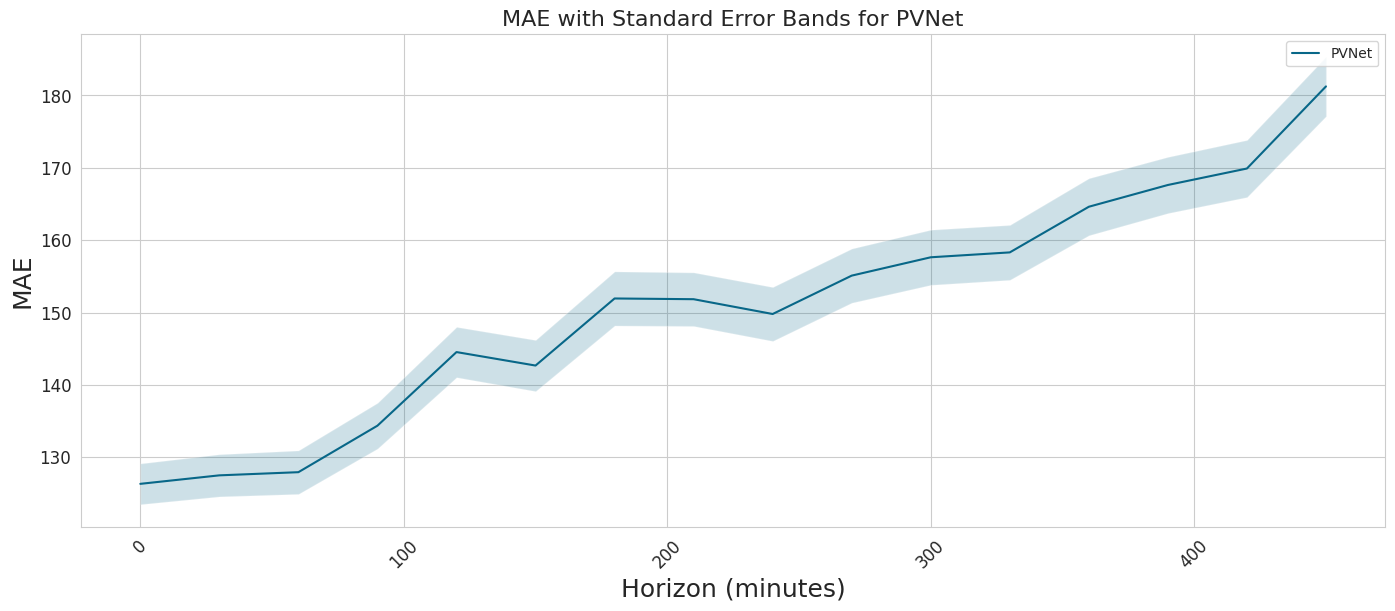
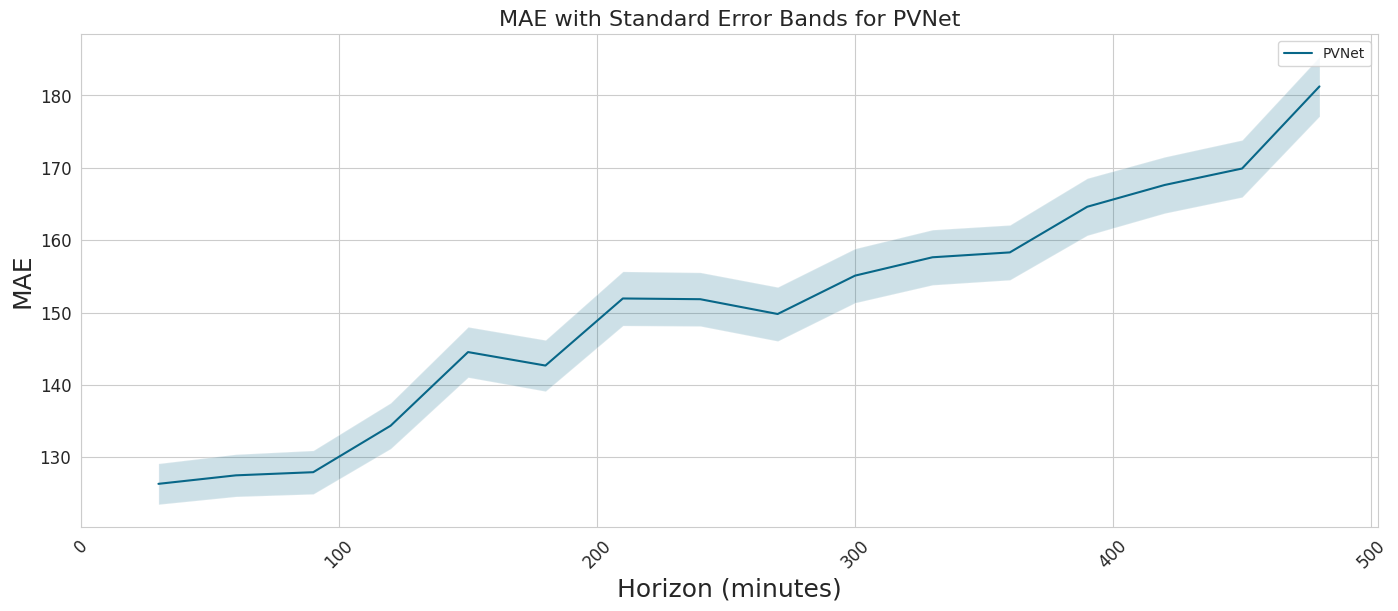
add new PVNet horizon graphs with 30 min adjustment

diff --git a/reports/pvnet_comp.md b/reports/pvnet_comp.md
@@ -20,7 +20,7 @@ This report compares the accuracy of OCF’s national PV forecast (PVNet) and Sh
 
 ## Introduction
 
-In this report, we evaluate the performance of OCF's national PV forecast (PVNet) against the Sheffield Solar PVLive Intraday forecast, using the updated PVLive forecast as the benchmark truth for this comparison. This report will look into various error metrics and discuss the implications of our findings. First we will compare how PVLive Intraday and PVNet perform against PVLive Updated over periods in which we have data for. Then a more comprehensive evaluation of PVNet vs PVLive Updated is completed across the year of 2022, including evaluating the performance across different forecast horizons.
+In this report, we evaluate the performance of OCF's national PV forecast (PVNet) against the Sheffield Solar PVLive Intraday forecast, using the updated PVLive forecast as the benchmark truth for this comparison. This report will look into various error metrics and discuss the implications of our findings. First we will compare how PVLive Intraday and PVNet perform against PVLive Updated over periods in which we have data for. Then a more comprehensive evaluation of PVNet vs PVLive Updated is to be completed across the year of 2022, including evaluating the performance across different forecast horizons.
 
 This report should be used to indicate the difference in the forecasting capabilities between the two as well as provide a framework for future analysis to completed over a larger number of data points.
 
@@ -36,12 +36,12 @@ The number of datapoints that can be used to compare is restricted by two factor
 * ~1 month of missing satellite data
 * 2 days every month in which the satellites switch over.
 
-These inputs gaps do not occur in our production environment. These forecasts could not be made without the missing inputs, and hence have been omitted from the comparison. The quantities of data available can be seen in the chart below (fig 1) where the y axis represents the date, with the top indicating the start of 2022 and the bottom indicating the end of 2022 and the x axis labelling the different data used. The darkened areas illustrates data that is available whereas the white areas show missing or ommitted data.
+These input gaps do not occur in our production environment. These forecasts could not be made without the missing inputs, and hence have been omitted from the comparison. The quantities of data available can be seen in the chart below (fig 1) where the y axis represents the date, with the top indicating the start of 2022 and the bottom indicating the end of 2022 and the x axis labelling the different data used. The darkened areas illustrate data that is available whereas the white areas show missing or omitted data.
 
 ![Data Availability](./imgs/data_availability_across_2022.png)
 *Fig 1: The data availability across the 3 datasets used in this analysis.*
 
-This report will first look into just the overlapping datapoints from PVLive Intraday and PVNet as shown in the graph above before then moving on to compare all of the datapoints available for PVNet and PVLive updated. Metrics such as the Mean Absolute Error (MAE), Root-Mean-Square Error (RMSE), Mean Bias Error (MBE) and the Coefficient of Determination (R2) will be used for this analysis.
+This report will first look into just the overlapping data points from PVLive Intraday and PVNet as shown in the graph above before then moving on to compare all of the data points available for PVNet and PVLive updated. Metrics such as the Mean Absolute Error (MAE), Root-Mean-Square Error (RMSE), Mean Bias Error (MBE) and the Coefficient of Determination (R2) will be used for this analysis.
 
 ---
 
@@ -58,11 +58,11 @@ The ± represents the standard error in the metric.
 
 PVNet has a significantly better MAE of 129.75 MW compared to PVLive Intraday's MAE of 197.37 MW (shown to be statistically significant with a sample size of n = 5053). Across the data points tested PVNet has a 34.3% reduction in MAE compared to PVLive Intraday.
 
-PVNet also shows a significant reduction in MBE compared to PVLive Intraday. PVLive intraday has an MBE of -187.91 MW indicating a strong tendency to underpredict the actual value where as PVNet has an MBE of 6.30 MW indicating a very slight tendency to overpredict.
+PVNet also shows a significant reduction in MBE compared to PVLive Intraday. PVLive intraday has an MBE of -187.91 MW indicating a strong tendency to underpredict the actual value whereas PVNet has an MBE of 6.30 MW indicating a very slight tendency to overpredict.
 
 ### Standard Deviations of Metrics
 
-| Forecast | Std MAE        | StdRMSE       | Std MBE     |
+| Forecast | Std MAE        | Std RMSE       | Std MBE     |
 |----------|----------------|---------------|-------------|
 | PVLive Intraday    | 298.17         | 521.04        | 304.23      |
 | PVNet    | 194.14         | 370.62        | 233.43      |
@@ -107,7 +107,7 @@ From the heatmaps we can see that most of the worst errors of PVLive intraday oc
 ![Error Distribution of Model A](./imgs/pvnet_vs_pvlin_MBE_monthly.png)
 *Fig 7: Average monthly MBE for PVNet and PVLive Intraday*
 
-Looking at the Mean Bias Error across the months, PVLive Intraday has strong tendency to underpredict, with this bias strongest in the summer months. PVNet also has a slight tendency to unpredict in these summer months as well before switching to having a slight tendency to overpredict in the winter. As the year progresses towards the winter months PVLive Intradays bias does start to decrease where it reaches around -60 in Novemeber compared to PVNet which sits around +50.
+Looking at the Mean Bias Error across the months, PVLive Intraday has a strong tendency to underpredict, with this bias strongest in the summer months. PVNet also has a slight tendency to unpredict in these summer months as well before switching to having a slight tendency to overpredict in the winter. As the year progresses towards the winter months PVLive Intradays bias does start to decrease where it reaches around -60 in November compared to PVNet which sits around +50.
 
 Like before, the following heatmaps will break the MAE down into the average MAE per hour for months and weeks. With red showing an overprediction (the darker the red the greater the overprediction) and blue showing an underprediction (the darker the blue the greater the underprediction) for that period.
 
@@ -133,14 +133,14 @@ Like before, the following heatmaps will break the MAE down into the average MAE
 </tr>
 </table>
 
-The heatmaps shows that PVLive Intraday has a strong tendecy to underpredict with only 1 week having strong signs of an overprediction (week 35). PVNet illustrates and tendency to underpredict in the very early and later hours of the day (around sunrise and sunset) and slight tendency to overpredict in the middle of the day, but with some underpreictions occuring (primarily during week 30 to 34).
+The heatmaps show that PVLive Intraday has a strong tendency to underpredict with only 1 week having strong signs of an overprediction (week 35). PVNet illustrates a tendency to underpredict in the very early and later hours of the day (around sunrise and sunset) and slight tendency to overpredict in the middle of the day, but with some underprediction occuring (primarily during week 30 to 34).
 
 ### Error Distribution
 
 ![Model Forecast vs. Actuals](./imgs/pvnet_pvlin_Error_nights_excluded_hist.png)
-*Fig 12: Histrogram of error distribution of PVNet and PVLive Inraday, with nights removed.*
+*Fig 12: Histogram of error distribution of PVNet and PVLive Intraday, with nights removed.*
 
-When viewing the error distrubtion, the effect of the mean bias in each of the forecasts becomes visible. With PVLive Intraday having a strong negative skew and PVNet having a symetrical distribution.
+When viewing the error distribution, the effect of the mean bias in each of the forecasts becomes visible. With PVLive Intraday having a strong negative skew and PVNet having a symmetrical distribution.
 
 ---
 
@@ -150,7 +150,7 @@ Next this report will look at the performance of PVNet compared to PVLive update
 
 * 2022-01-01 to 2022-11-19
 
-The results shown in the table below are from taking the  PVNet 30 minute forecast, which is the same that was used for the PVLive Intraday comparison above, and comparing the results to PVLive Updated. This section also contains graphs which illustrate the performance of PVNet across its different forecasting horizons (0-8hours).
+The results shown in the table below are from taking the  PVNet 30 minute forecast, which is the same that was used for the PVLive Intraday comparison above, and comparing the results to PVLive Updated. This section also contains graphs which illustrate the performance of PVNet across its different forecasting horizons (30 - 480 minutes).
 
 ### PVNet Results Table
 
@@ -189,12 +189,12 @@ Over the 8 hours that PVNet makes predictions for, its MAE increases from 126 to
 ![PVNet MBE](./imgs/pvnet_all_MBE_monthly.png)
 *Fig 17: Average monthly MBE for PVNet across 2022.*
 
-An almost inverse in pattern is seen between MAE and MBE with overpredictions happening in the autumn and winter months and underpredictions in spring and summer, peaking in August with an average MBE for that month around -40 MW.
+An almost inverse pattern is seen between MAE and MBE with overpredictions happening in the autumn and winter months and underpredictions in spring and summer, peaking in August with an average MBE for that month around -40 MW.
 
 ![PVNet Horizon MBE](./imgs/pvnet_all_horizon_MBE.png)
 *Fig 18: PVNet horizon vs MBE averaged across 2022.*
 
-Reviewing how MBE changes across horizons show that past 6 hours (360 minutes), the negative MBE starts to increase.
+Reviewing how MBE changes across horizons shows that past 6 hours (360 minutes), the negative MBE starts to increase.
 
 <table>
 <tr>
@@ -255,15 +255,15 @@ $$ SE = \frac{\sigma}{\sqrt{n}}$$
 The following graphs show results for the root-mean-square deviation (RMSE).
 
 ![Error Distribution of Model A](./imgs/pvnet_vs_pvlin_RMSE_monthly.png)
-*Fig 21: Average monthly RMSE for PVNet and PVLive Intraday*
+*Fig 21: (Similar to Fig 2) Average monthly RMSE for PVNet and PVLive Intraday*
 
 ![PVNet RMSE](./imgs/pvnet_all_RMSE_monthly.png)
-*Fig 22: Average monthly RMSE for PVNet across 2022.*
+*Fig 22: (Similar to Fig 13) Average monthly RMSE for PVNet across 2022.*
 
 ![PVNet Horizon RMSE](./imgs/pvnet_all_horizon_RMSE.png)
-*Fig 23: PVNet horizon vs RMSE averaged across 2022.*
+*Fig 23:(Similar to Fig 14) PVNet horizon vs RMSE averaged across 2022.*
 
 The following graph uses a Kernal density plot as another way to visualise the error distribution.
 
 ![Model Forecast vs. Actuals](./imgs/pvnet_pvlin_Error_nights_excluded_kde.png)
-*Fig 24: Kernel density estimation of error distribution of PVNet and PVLive Inraday, with nights removed.*
+*Fig 24: (Similar to Fig 12) Kernel density estimation of error distribution of PVNet and PVLive Inraday, with nights removed.*
